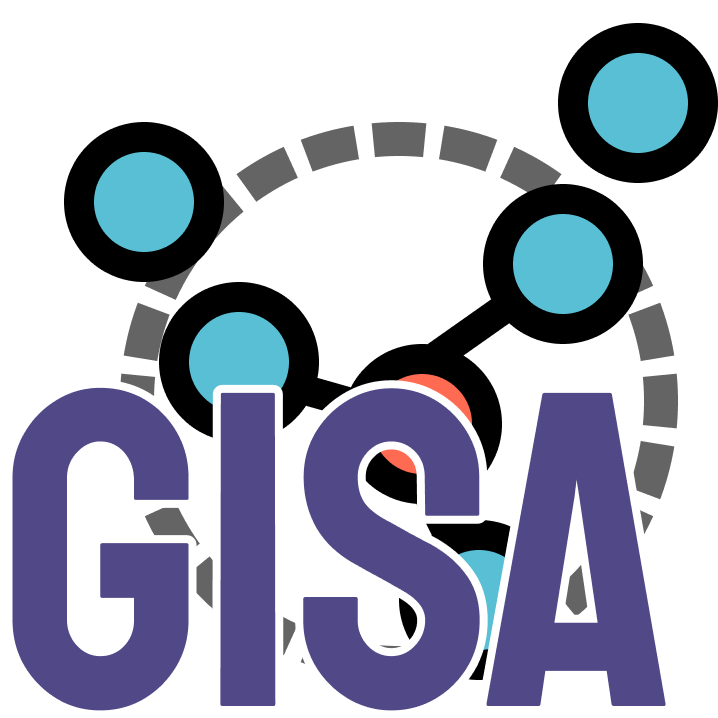
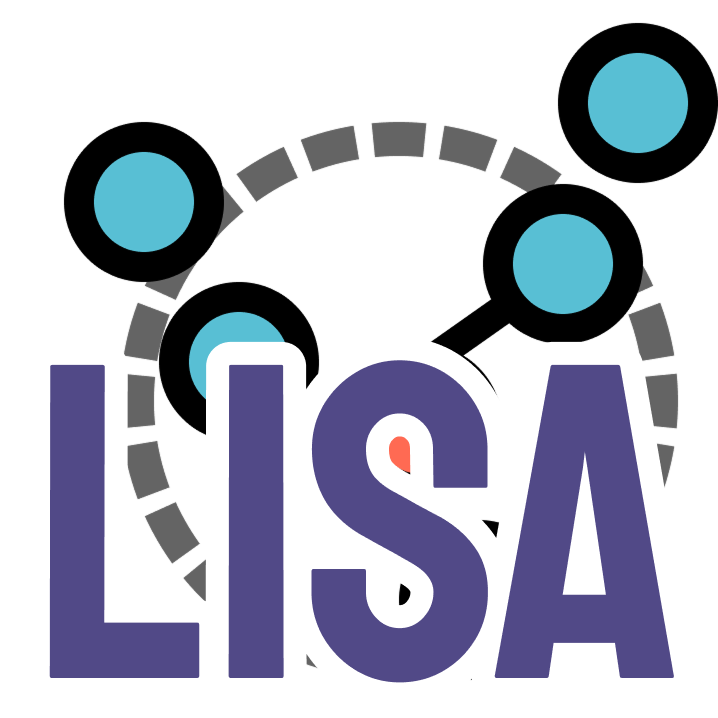
LISA dnearnigh

Changed region(s): [[0.0, 0.4596, 0.9499, 1.0]]

diff --git a/adjacency_matrix_provider/lisa/lisa_dnearneigh_algorithm.py b/adjacency_matrix_provider/lisa/lisa_dnearneigh_algorithm.py
@@ -26,22 +26,23 @@ import tempfile
 
 from qgis.PyQt.QtCore import QCoreApplication
 from qgis.core import (QgsSettings,
+                       QgsVectorLayer,
                        QgsProcessing,
                        QgsProcessingException,
-                       QgsVectorFileWriter,
+                       QgsFeatureSink,
+                       QgsWkbTypes,
                        QgsProcessingAlgorithm,
                        QgsProcessingParameterVectorLayer,
                        QgsProcessingParameterField,
-                       QgsProcessingParameterBoolean,
                        QgsProcessingParameterNumber,
-                       QgsProcessingParameterFileDestination,
+                       QgsProcessingParameterFeatureSink,
                        QgsProcessingParameterEnum)
 
 from qgis.PyQt.QtGui import QIcon
 from ...utils.layer_tools import get_layer_path_or_temp
 
 
-class GISADnearneighAlgorithm(QgsProcessingAlgorithm):
+class LISADnearneighAlgorithm(QgsProcessingAlgorithm):
 
     FIELD = 'FIELD'
     INPUT = 'INPUT'
@@ -49,7 +50,7 @@ class GISADnearneighAlgorithm(QgsProcessingAlgorithm):
     D_MIN = 'D_MIN'
     D_MAX = 'D_MAX'
     USE_DISTANCE_DECAY = 'USE_DISTANCE_DECAY'
-    OUTPUT = 'OUTPUT'
+    OUTPUT_POLYGONS = 'OUTPUT_POLYGONS'
 
 
 
@@ -71,12 +72,12 @@ class GISADnearneighAlgorithm(QgsProcessingAlgorithm):
                         optional=False
                     )
                 )
-
+ 
         self.addParameter(
             QgsProcessingParameterEnum(
                 name=self.STATISTICS_TYPE,
                 description='Statistics type',
-                options=['Global Moran\'s I', 'Global Geary\'s C','Global Getis-Ord G','Global Getis-Ord G*'],
+                options=['Local Moran\'s I','Local Getis-Ord G','Local Getis-Ord G*'],
                 defaultValue=0
             )
         )
@@ -96,35 +97,14 @@ class GISADnearneighAlgorithm(QgsProcessingAlgorithm):
             )
         )
 
-
-
         self.addParameter(
-            QgsProcessingParameterBoolean(
-                name=self.USE_DISTANCE_DECAY,
-                description='Use distance-decay weights (1/d)',
-                defaultValue=False
+            QgsProcessingParameterFeatureSink(
+                name=self.OUTPUT_POLYGONS,
+                description='Polygons with neighbor attributes',
+                createByDefault=True 
             )
         )
 
-        # txt
-        self.addParameter(
-            QgsProcessingParameterFileDestination(
-                name=self.OUTPUT,
-                description='Export result txt',
-                fileFilter='TXT (*.txt)',
-                optional=True,  # ← スキップ可
-                createByDefault=False # ← デフォルトで作成しない
-            )
-        )
-    def get_layer_path_or_temp(self, layer):
-        # ファイルベースなら直接返す
-        if layer.storageType().lower() in ["esri shapefile", "gpkg", "geojson", "geopackage"]:
-            return layer.source(), False
-        else:
-            # それ以外なら一時GPKGにエクスポート
-            temp_path = os.path.join(tempfile.gettempdir(), f"input_polygons_{uuid.uuid4().hex}.gpkg")
-            QgsVectorFileWriter.writeAsVectorFormat(layer, temp_path, "utf-8", layer.crs(), "GPKG")
-            return temp_path, True
        
     def processAlgorithm(self, parameters, context, feedback):
         rscript_path = QgsSettings().value("RRunner/RscriptPath", "")
@@ -137,30 +117,27 @@ class GISADnearneighAlgorithm(QgsProcessingAlgorithm):
         # フィールド名を取得
         field_name = self.parameterAsString(parameters, self.FIELD, context)
 
-        output = self.parameterAsFile(parameters, self.OUTPUT, context)
-
         
 
         d_minimum = self.parameterAsDouble(parameters, self.D_MIN, context)
         d_maximum = self.parameterAsDouble(parameters, self.D_MAX, context)
 
 
-        use_distance_decay = self.parameterAsBool(parameters, 'USE_DISTANCE_DECAY', context)
-        r_use_decay = "TRUE" if use_distance_decay else "FALSE"
         
         # 共通: 座標（重心）
         r_nb_code = "coords <- st_coordinates(st_centroid(polygons))\n"
         r_nb_code += f'nb <- dnearneigh(coords, d1 = {d_minimum}, d2 = {d_maximum})\n'
                 
         r_statistic__index = self.parameterAsEnum(parameters, self.STATISTICS_TYPE, context)
-        r_statistic_type = ['Moran\'s I', 'Geary\'s C', 'Getis-Ord G', 'Getis-Ord G*'][r_statistic__index]
+        r_statistic_type = ['Local Moran\'s I', 'Local Getis-Ord G', 'Local Getis-Ord G*'][r_statistic__index]
         
 
         # 入力レイヤを一時GPKGとして保存
         input_path, is_temp = get_layer_path_or_temp(input_layer)
-        input_layer_path = input_path.replace("\\", "/")
        
-
+        # 出力先（Rが書き出す）
+        output_poly_path = os.path.join(tempfile.gettempdir(), f"output_neighbors_{uuid.uuid4().hex}.gpkg")
+        
 
         # Rコードを生成
         r_code = f"""
@@ -186,64 +163,71 @@ class GISADnearneighAlgorithm(QgsProcessingAlgorithm):
         # 近接構築
         {r_nb_code}
 
-        # nb2listw に zero.policy=TRUE をつけた場合、listw$neighbours の長さは nb に合わせて出る
-        # その代わり、重み・隣接が 0 のポリゴンも明示的に扱う必要あり
-        # 行基準化ウェイト行列
-        # 距離減衰を使うかどうか（Pythonから渡されたフラグ）
+        # 隣接行列の作成
         statistic_type <- "{r_statistic_type}"  # Pythonから渡す文字列
-
-        # 距離減衰ありの場合
-        if ({r_use_decay}) {{
-            centroids <- st_centroid(polygons)
-            glist <- nbdists(nb, centroids)
-            glist <- lapply(glist, function(x) 1/x)
-
-            if (statistic_type == "Getis-Ord G*") {{
-                nb_self <- include.self(nb)
-                listw <- nb2listw(nb_self, glist=glist, style="W", zero.policy=TRUE)
-            }} else {{
-                listw <- nb2listw(nb, glist=glist, style="W", zero.policy=TRUE)
-            }}
+        if (statistic_type == "Local Getis-Ord G") {{
+            listw <- nb2listw(nb, style="B", zero.policy=TRUE)
+        }} else if (statistic_type == "Local Getis-Ord G*") {{
+            nb_self <- include.self(nb)
+            listw <- nb2listw(nb_self, style="B", zero.policy=TRUE)
         }} else {{
-            # 距離減衰なしの場合
-            if (statistic_type == "Getis-Ord G") {{
-                listw <- nb2listw(nb, style="B", zero.policy=TRUE)
-            }} else if (statistic_type == "Getis-Ord G*") {{
-                nb_self <- include.self(nb)
-                listw <- nb2listw(nb_self, style="B", zero.policy=TRUE)
-            }} else {{
-                listw <- nb2listw(nb, style="W", zero.policy=TRUE)
-            }}
+            listw <- nb2listw(nb, style="W", zero.policy=TRUE)
         }}
 
-        result_txt <- c(
-        "Input layer: {input_layer_path}\\n",
-        "Field: {field_name}",
-        "Neighbor type: Distance-based (min= {d_minimum}, max= {d_maximum})"
-        )
+        
 
 
-        if (statistic_type == "Moran's I") {{
-            test <- moran.test(polygons[[id_field]], listw)
-            test_result<- capture.output(test)
-        }} else if (statistic_type == "Geary's C") {{
-            test <- geary.test(polygons[[id_field]], listw)
+        if (statistic_type == "Local Moran's I") {{
+            test <- localmoran(polygons[[id_field]], listw, zero.policy = TRUE)
             test_result <- capture.output(test)
-        }} else if (statistic_type == "Getis-Ord G" || statistic_type == "Getis-Ord G*") {{
-            test <- globalG.test(polygons[[id_field]], listw)
-            test_result <- capture.output(test)
+            quadr <- attr(test, "quadr")
+
+            # 結果を属性に追加
+            attrs <- st_drop_geometry(polygons)
+            attrs$Ii <- test[, "Ii"]
+            attrs$E <- test[, "E.Ii"]
+            attrs$Var <- test[, "Var.Ii"]
+            attrs$Z <- test[, "Z.Ii"]
+            attrs$Pr_z <- test[, "Pr(z != E(Ii))"]
+            attrs$clus_mean <- quadr[,"mean"]
+            attrs$clus_median <- quadr[,"median"]
+            attrs$clus_pysal <- quadr[,"pysal"]
+
+            # geometryと再結合
+            polygons <- st_sf(attrs, geometry = st_geometry(polygons))
+        }} else if (statistic_type == "Local Getis-Ord G") {{
+            test <- localG(polygons[[id_field]], listw, zero.policy = TRUE)
+            #test_result <- capture.output(test)
+            internals <- attr(test, "internals")
+            # 結果を属性に追加
+            attrs <- st_drop_geometry(polygons)
+            attrs$Gi <-  as.numeric(test)
+            attrs$Pr_z <- internals[, "Pr(z != E(Gi))"]
+
+            # geometryと再結合
+            polygons <- st_sf(attrs, geometry = st_geometry(polygons))
+        }} else if (statistic_type == "Local Getis-Ord G*") {{
+            test <- localG(polygons[[id_field]], listw, zero.policy = TRUE)
+            #test_result <- capture.output(test)
+            internals <- attr(test, "internals")
+            cluster <- attr(test,"cluster")
+            # 結果を属性に追加
+            attrs <- st_drop_geometry(polygons)
+            attrs$Gi <-  as.numeric(test)
+            attrs$Pr_z <- internals[, "Pr(z != E(G*i))"]
+            attrs$cluster <- cluster
+
+            # geometryと再結合
+            polygons <- st_sf(attrs, geometry = st_geometry(polygons))
+
         }} 
 
+        # 必ずsfオブジェクトに戻す
+        polygons <- st_as_sf(polygons)
         # 結果を出力
-        # ヘッダーに結果を追加
-        result_txt <- c(result_txt, "", test_result)
+        st_write(polygons, "{output_poly_path}", delete_dsn = TRUE)
 
-        cat(result_txt, sep="\n")
-
-        # 書き出し
-        if ("{output}" != "") {{
-            writeLines(result_txt, "{output}")
-            }}
+        
         """
                 
                 
@@ -255,36 +239,60 @@ class GISADnearneighAlgorithm(QgsProcessingAlgorithm):
 
         # Rスクリプトを実行
         result = subprocess.run([rscript_path, r_script_file], capture_output=True, text=True)
-        if result.returncode != 0:
-            raise QgsProcessingException(f"R実行中にエラー:\n{result.stderr}")
+        if result.returncode != 0 or 'Error' in result.stderr:
+            raise QgsProcessingException(f"R実行中にエラー:\n{result.stderr}\n{result.stdout}")
 
-        feedback.pushInfo("=== GISA Statistics Result ===\n" + result.stdout)
+        feedback.pushInfo("=== LISA Statistics Result ===\n" + result.stdout)
         feedback.pushInfo("=============================")
 
+        # Rが書き出したポリゴンを読み込み
+        poly_layer = QgsVectorLayer(output_poly_path, "LISA_Polygons", "ogr")
+        if poly_layer.isValid():
+            sink_poly, poly_id = self.parameterAsSink(
+                parameters,
+                self.OUTPUT_POLYGONS,
+                context,
+                poly_layer.fields(),
+                QgsWkbTypes.MultiPolygon,  
+                poly_layer.crs()
+            )
+            if sink_poly:
+                for feat in poly_layer.getFeatures():
+                    sink_poly.addFeature(feat, QgsFeatureSink.FastInsert)
+        else:
+            feedback.reportError("出力ポリゴンレイヤの読み込みに失敗しました。")
+
+
+        # 一時ファイルを削除
         os.remove(r_script_file)
         if is_temp and os.path.exists(input_path):
             os.remove(input_path)
-        
-        return {}
+
+
+        result_dict = {}
+        if 'poly_id' in locals():
+            result_dict[self.OUTPUT_POLYGONS] = poly_id
+
+        return result_dict
 
     def name(self):
-        return 'gisadnearneigh'
+        return 'lisadnearneigh'
     
     def icon(self):
-        return QIcon(os.path.join(os.path.dirname(__file__), 'icon_gisa_dnearneigh.png'))
+        return QIcon(os.path.join(os.path.dirname(__file__), 'icon_lisa_dnearneigh.png'))
 
 
     def displayName(self):
-        return self.tr('GISA(Distance-based Nearest Neighbor)')
+        return self.tr('LISA(Distance-based Nearest Neighbor)')
 
     def group(self):
-        return self.tr('Global Indicator of Spatial Association')
+        return self.tr('Local Indicator of Spatial Association')
 
     def groupId(self):
-        return 'rgisa'
+        return 'rlisa'
 
     def tr(self, string):
         return QCoreApplication.translate('Processing', string)
 
     def createInstance(self):
-        return GISADnearneighAlgorithm()
+        return LISADnearneighAlgorithm()

diff --git a/adjacency_matrix_provider/lisa/lisa_adjacency_matrix_algorithm.py b/adjacency_matrix_provider/lisa/lisa_adjacency_matrix_algorithm.py
@@ -49,7 +49,6 @@ class LISAAdjacencyMatrixAlgorithm(QgsProcessingAlgorithm):
     STATISTICS_TYPE = 'STATISTICS_TYPE'
     NEIGHBOR_TYPE = 'NEIGHBOR_TYPE'
     OUTPUT_POLYGONS = 'OUTPUT_POLYGONS'
-    OUTPUT = 'OUTPUT'
 
 
 
@@ -91,7 +90,6 @@ class LISAAdjacencyMatrixAlgorithm(QgsProcessingAlgorithm):
         )
 
 
-
         self.addParameter(
             QgsProcessingParameterFeatureSink(
                 name=self.OUTPUT_POLYGONS,
@@ -118,10 +116,6 @@ class LISAAdjacencyMatrixAlgorithm(QgsProcessingAlgorithm):
 
         queen = self.parameterAsEnum(parameters, 'NEIGHBOR_TYPE', context) == 0  # True if Queen
         nb_queen = str(queen).upper()  # R側に渡す用
-        if queen:
-            nb_type = "Queen"
-        else:
-            nb_type = "Rook"
 
 
 
@@ -135,7 +129,6 @@ class LISAAdjacencyMatrixAlgorithm(QgsProcessingAlgorithm):
 
         # 入力レイヤを一時GPKGとして保存
         input_path, is_temp = get_layer_path_or_temp(input_layer)
-        input_layer_path = input_path.replace("\\", "/")
         
         # 出力先（Rが書き出す）
         output_poly_path = os.path.join(tempfile.gettempdir(), f"output_neighbors_{uuid.uuid4().hex}.gpkg")

diff --git a/adjacency_matrix_provider/adjacency_matrix_provider.py b/adjacency_matrix_provider/adjacency_matrix_provider.py
@@ -38,6 +38,7 @@ from .gisa.gisa_adjacency_matrix_algorithm import GISAAdjacencyMatrixAlgorithm
 from .gisa.gisa_knearneigh_algorithm import GISAKnearneighAlgorithm
 from .gisa.gisa_dnearneigh_algorithm import GISADnearneighAlgorithm
 from .lisa.lisa_adjacency_matrix_algorithm import LISAAdjacencyMatrixAlgorithm
+from .lisa.lisa_dnearneigh_algorithm import LISADnearneighAlgorithm
 
 
 class AdjacencyMatrixProvider(QgsProcessingProvider):
@@ -68,6 +69,7 @@ class AdjacencyMatrixProvider(QgsProcessingProvider):
         self.addAlgorithm(GISADnearneighAlgorithm())
         # add LISA algorithms
         self.addAlgorithm(LISAAdjacencyMatrixAlgorithm())
+        self.addAlgorithm(LISADnearneighAlgorithm())
         # add additional algorithms here
         # self.addAlgorithm(MyOtherAlgorithm())
 
